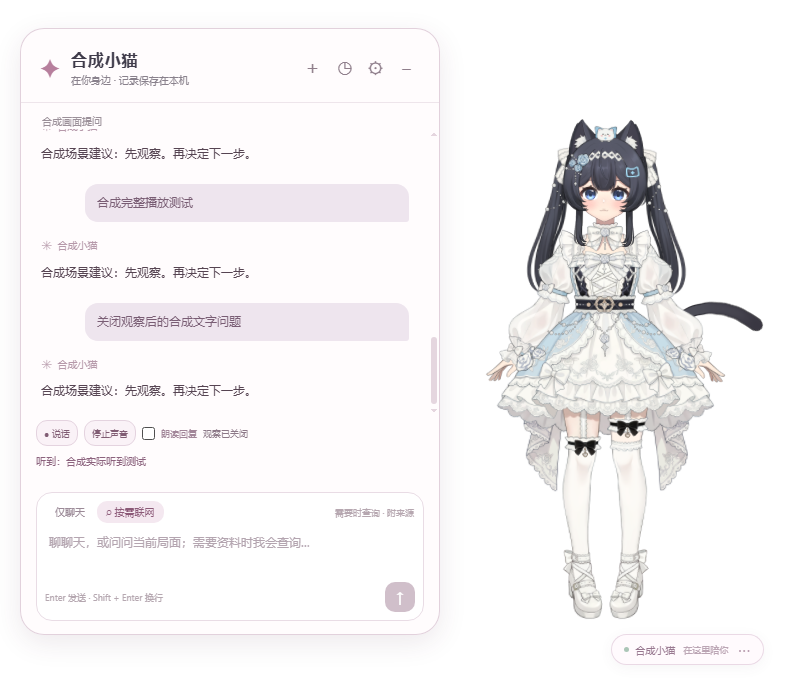
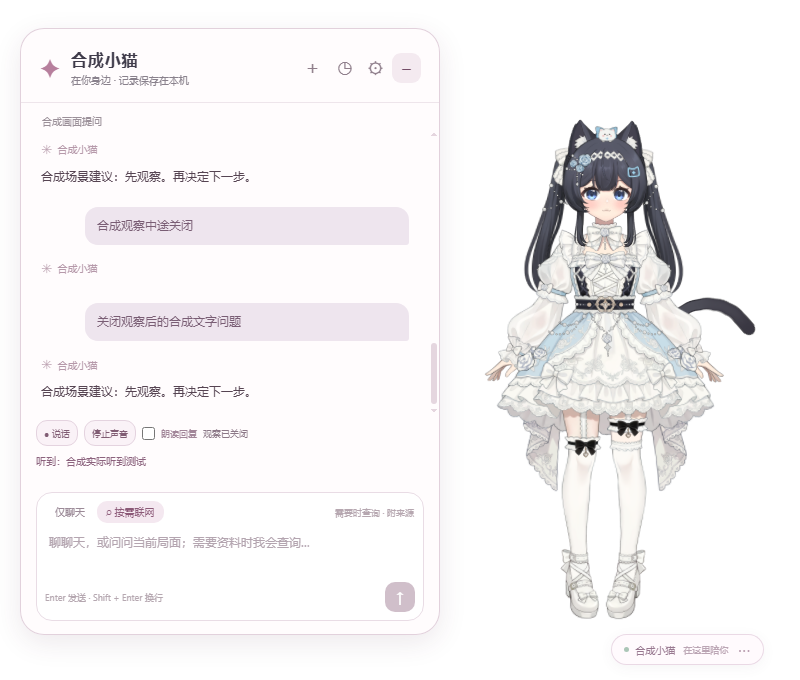
Record verified Windows voice and vision lifecycle build [skip ci]

diff --git a/docs/COMPANION-IMPLEMENTATION.md b/docs/COMPANION-IMPLEMENTATION.md
@@ -41,15 +41,15 @@
 
 所有本轮数据、图片、语音和HTTP服务均为合成资料；未读取用户桌面、真实麦克风或其他项目凭据。
 
-- 快照与已听上下文收尾：本机全套Python544项通过、1项Windows凭据库专属skip，详细结果见REVIEW；Windows结果按对应commit独立记录。新增回归涵盖API确认与revision冲突、快照移除手动事实后的旧对话清理，以及清理失败时阻止读取旧事件、重启恢复。
-- 宿主：31项通过。实际Electron原桌宠基线9项及新增闭环16项通过，报告和图片位于[证据目录](evidence/companion)。新增闭环核对人格、记忆CRUD/原文、快照恢复/删除/损坏与冲突、权限拒绝、所选合成窗口、fake麦克风、真实WebAudio MP3解码/播放、口型、停止和关闭观察。
+- 快照与已听上下文收尾：本机全套Python574项通过、1项Windows凭据库专属skip，详细结果见REVIEW；Windows结果按对应commit独立记录。新增回归涵盖API确认与revision冲突、快照移除手动事实后的旧对话清理，以及清理失败时阻止读取旧事件、重启恢复。
+- 宿主：58项通过。实际Electron原桌宠基线9项及新增闭环18项通过，报告和图片位于[证据目录](evidence/companion)。新增闭环核对人格、记忆CRUD/原文、快照恢复/删除/损坏与冲突、权限拒绝、所选合成窗口、fake麦克风、真实WebAudio MP3解码/播放、口型、停止和关闭观察。
 - 播放`started/completed/stopped`绑定原文Unicode码点范围；收起面板已听内容可进入下一轮，但未显示文字的ACK仍为0。已验证第一句听完、第二句停止后仅第一句进入模型上下文；URL/引用被文字ACK从中截断也不会误算成已读出。重启不重新合成或播放历史语音。单次停止观测不能冒充20次p95通过。
 - 遗忘验证包含来源关联闭包、派生待提取原文、会话/checkpoint清理、并发删除、过期写入拒绝，以及Memory事务已提交但会话清理前失败的断点重启恢复；只说明覆盖的故障断点，不声称所有故障均已穷举。
 - DeepSeek普通Chat Completions已补官方端点的`max_tokens`字段及工具往返的内部上下文传递，内部内容不显示、不读出、不写checkpoint。这基于[官方协议说明](https://api-docs.deepseek.com/quick_start/agent_integrations/oh_my_pi/)和[Thinking Mode](https://api-docs.deepseek.com/guides/thinking_mode/)，真实账户调用仍为0。
-- CI增加实际Windows ZIP的新增闭环门禁：`node desktop/tests/companion.smoke.cjs --archive <zip> --output <json>`，使用包内应用/后端和合成服务；最终[CI](https://github.com/FrigidCrow/ai-neko/actions/runs/36228220001)源码Windows545项/0跳过、Linux544项/1平台跳过；冻结后端16/16、桌宠基线9/9和新增闭环16/16通过。[Windows实际报告](evidence/companion/windows/companion-smoke.json)使用解压后应用及合成窗口/麦克风/模型/音频服务，单次停止34ms不等于20次p95。Windows Server运行不能替代Windows11真机。
+- CI增加实际Windows ZIP的新增闭环门禁：`node desktop/tests/companion.smoke.cjs --archive <zip> --output <json>`，使用包内应用/后端和合成服务；最终[CI](https://github.com/FrigidCrow/ai-neko/actions/runs/36229884609)源码Windows575项/0跳过、Linux574项/1平台跳过；冻结后端16/16、桌宠基线9/9和新增闭环18/18通过。[Windows实际报告](evidence/companion/windows/companion-smoke.json)使用解压后应用及合成窗口/麦克风/模型/音频服务，单次停止40ms不等于20次p95。Windows Server运行不能替代Windows11真机。
 
 本轮没有以静态检查、合成回复、文档通过或已有旧Release作为五项功能全部完成的证据。完整目标保持进行中。
 
-开发包：登录GitHub后下载 [ai-neko-windows-x64](https://github.com/FrigidCrow/ai-neko/actions/runs/36228220001/artifacts/10902330067)，展开构建产物，再完整解压内层`ai-neko-0.3.0-dev.5871f2d94e2f-windows-x64.zip`并运行根目录`ai-neko.exe`。该包包含五项能力、本次快照管理和已听上下文收尾。无需本机Python/Node；这是开发构建，未创建新版Release，产物保留14天。
+开发包：登录GitHub后下载 [ai-neko-windows-x64](https://github.com/FrigidCrow/ai-neko/actions/runs/36229884609/artifacts/10902556977)，展开构建产物，再完整解压内层`ai-neko-0.3.0-dev.669a8f181e45-windows-x64.zip`并运行根目录`ai-neko.exe`。该包包含五项能力、快照管理、已听上下文，以及本次录音生命周期与视觉撤销修复。无需本机Python/Node；这是开发构建，未创建新版Release，产物保留14天。
 
[2 lines of base64/hex data omitted]

diff --git a/WORKLOG.md b/WORKLOG.md
@@ -363,3 +363,9 @@ Final documentation check: python3 docs/diagrams/tools/validate-docs.py > artifa
 初次源码全套573项通过/1平台skip；新增恢复回归后574项通过/1skip，但扫描期间前端仍被修改，m0_smoke正确拒绝CI门禁，不能记为最终通过。待源码停止变化后再执行完整门禁。`node scripts/desktop_smoke.cjs --output artifacts/mvp1/desktop-lifecycle-baseline.json`实际桌面基线9/9通过，最终前端闭环和Windows包以下方证据补记。真实云服务与用户采集均0。
 
 最终`.venv/bin/python scripts/m0_smoke.py --output artifacts/mvp1/companion-lifecycle-source.json`：574 passed、1 Windows凭据专属skip、0失败/错误，source_unchanged_during_run=true、ci_gate=PASS，报告如实保留PARTIAL。`node --test desktop/tests/*.test.cjs`：58/58；`node desktop/tests/companion.smoke.cjs --output artifacts/mvp1/companion-lifecycle-ui.json`：18/18，新增实际IPC撤销后延迟图片请求409及中途关闭观察取消活动模型、无晚到文字。实际查看白裙YUI截图，报告与截图归档至docs/evidence/companion。合成17模型/3ASR/9TTS，单次停音15ms非p95；Ruff检查/格式与diff检查通过。提交并推送既有开发分支运行Windows CI，不创建tag。
+
+产品源码`669a8f181e45f838239bf7900bb20765588bbbd8`推送后，[CI 36229884609](https://github.com/FrigidCrow/ai-neko/actions/runs/36229884609)终态SUCCESS，Windows575/0skip、Linux574/1skip，宿主58、冻结后端16/16、实际桌宠基线9/9与陪伴闭环18/18均通过；非tag发布正常跳过。`gh run download`分别下载四个产物，合并时逐字节比对重复文件。`python3 artifacts/ci/verify-companion-download.py artifacts/ci/36229884609/verified 669a8f181e45f838239bf7900bb20765588bbbd8`为PASS：ZIP及清单、同一clean源码、内外build-info、GUI/后端AMD64 PE、实际执行摘要、NEKO记忆通知、两张截图及本轮撤销证据一致。
+
[1 lines of base64/hex data omitted]
+
+最终`python3 docs/diagrams/tools/validate-docs.py > artifacts/mvp1/lifecycle-final-docs.json`为PASS：24文档、364本地链接、20图和206参考文件，参考仓库tracked状态未变。逐项比对Windows归档JSON内容及截图与原始下载一致，`git diff --check`通过；证据与当前下载说明另提交`[skip ci]`，产品源码仍为上方已验证commit。

diff --git a/REVIEW.md b/REVIEW.md
@@ -245,3 +245,9 @@ Root 用 gh run download 分别取得两平台源码、package-evidence 和 ai-n
 新增回归执行真实前端代码；独立审查复现恢复期间拒绝取消的缺陷，修复后迟到上传409、模型调用0。实际Electron联调另发现勾选意图与语音识别提示回归，已纳入修复，最终结果待下方补记。真实音色/术语识别/游戏判断、真实云服务、Windows11与取消p95仍未验收，未创建新版Release。
 
 本轮最终Mac源码574项通过、1平台skip且源码扫描未变化；宿主58/58、实际Electron基线9/9、陪伴闭环18/18。最终闭环包含真实IPC请求取消、迟到图片409以及模型响应中关闭观察后无晚到输出，见[Mac报告](docs/evidence/companion/macos-companion.json)。前述勾选和识别状态回归均在实际桌面通过；合成17模型/3ASR/9TTS，用户采集和真实服务0。当前Windows旧开发包仍为5871f2d，新的Windows验收结果随后单列。
+
+### 录音与视觉生命周期 Windows 交付通过
+
+源码`669a8f181e45f838239bf7900bb20765588bbbd8`的[CI](https://github.com/FrigidCrow/ai-neko/actions/runs/36229884609)全部必要jobs通过：Windows575项/0skip、Linux574项/1平台skip、宿主58项、冻结后端16/16、实际桌宠9/9、陪伴闭环18/18。包内程序验证了实际IPC撤销、迟到图片请求409及关闭观察后的活动模型取消，已查看[Windows实际截图](docs/evidence/companion/windows/companion-smoke.png)。全部采集和服务仍为合成资料，Windows Server不等于Windows11游戏真机。
+
[1 lines of base64/hex data omitted]

diff --git a/README.md b/README.md
@@ -10,7 +10,7 @@
 
 已发布的 [v0.2.0-alpha.1](https://github.com/FrigidCrow/ai-neko/releases/tag/v0.2.0-alpha.1) 是历史网页工程预览，仍会打开浏览器，不能用它体验桌宠；`v0.1.0-alpha.1` 仅为基础诊断包。
 
-**当前开发分支新增**：可编辑猫娘人格、选定窗口的当轮视觉、按键语音输入与按句语音回复、默认按需共享联网查询，以及本地长期记忆的保存、召回、依据、纠正、遗忘与快照管理；语音续聊会保留已完整听完的句子。已参照 N.E.K.O 并提取分词/BM25 纯组件，完整实现、使用方法和未完成验收见 [五项能力说明](docs/COMPANION-IMPLEMENTATION.md)。这些功能尚未发布到旧版下载页；[本轮 CI](https://github.com/FrigidCrow/ai-neko/actions/runs/36228220001) 已通过Windows545项、冻结后端16项、桌宠9项和新增陪伴闭环16项；可登录GitHub下载 [Windows开发包](https://github.com/FrigidCrow/ai-neko/actions/runs/36228220001/artifacts/10902330067)。真实云服务、Windows11游戏场景与质量/时延仍未验收。
+**当前开发分支新增**：可编辑猫娘人格、选定窗口的当轮视觉、按键语音输入与按句语音回复、默认按需共享联网查询，以及本地长期记忆的保存、召回、依据、纠正、遗忘与快照管理；语音续聊会保留已完整听完的句子。已参照 N.E.K.O 并提取分词/BM25 纯组件，完整实现、使用方法和未完成验收见 [五项能力说明](docs/COMPANION-IMPLEMENTATION.md)。这些功能尚未发布到旧版下载页；[本轮 CI](https://github.com/FrigidCrow/ai-neko/actions/runs/36229884609) 已通过Windows575项、冻结后端16项、桌宠9项和新增陪伴闭环18项；可登录GitHub下载 [Windows开发包](https://github.com/FrigidCrow/ai-neko/actions/runs/36229884609/artifacts/10902556977)。真实云服务、Windows11游戏场景与质量/时延仍未验收。
 
 使用说明：[M1 试用与验收](docs/M1-QUICKSTART.md)、[Windows 下载与 CI/CD](docs/CI-RELEASES.md)。
 
